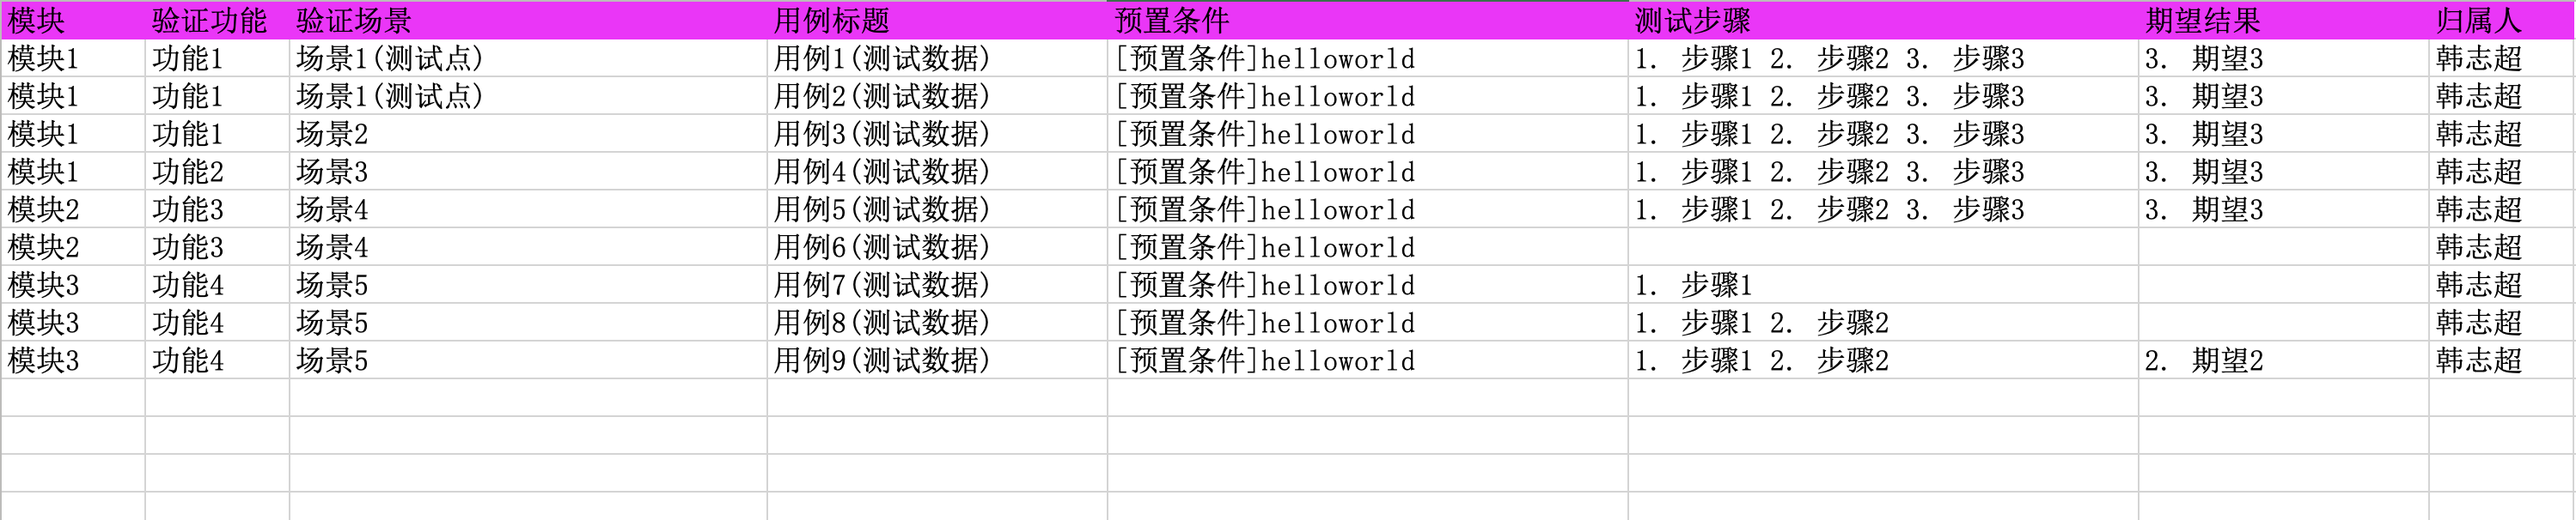
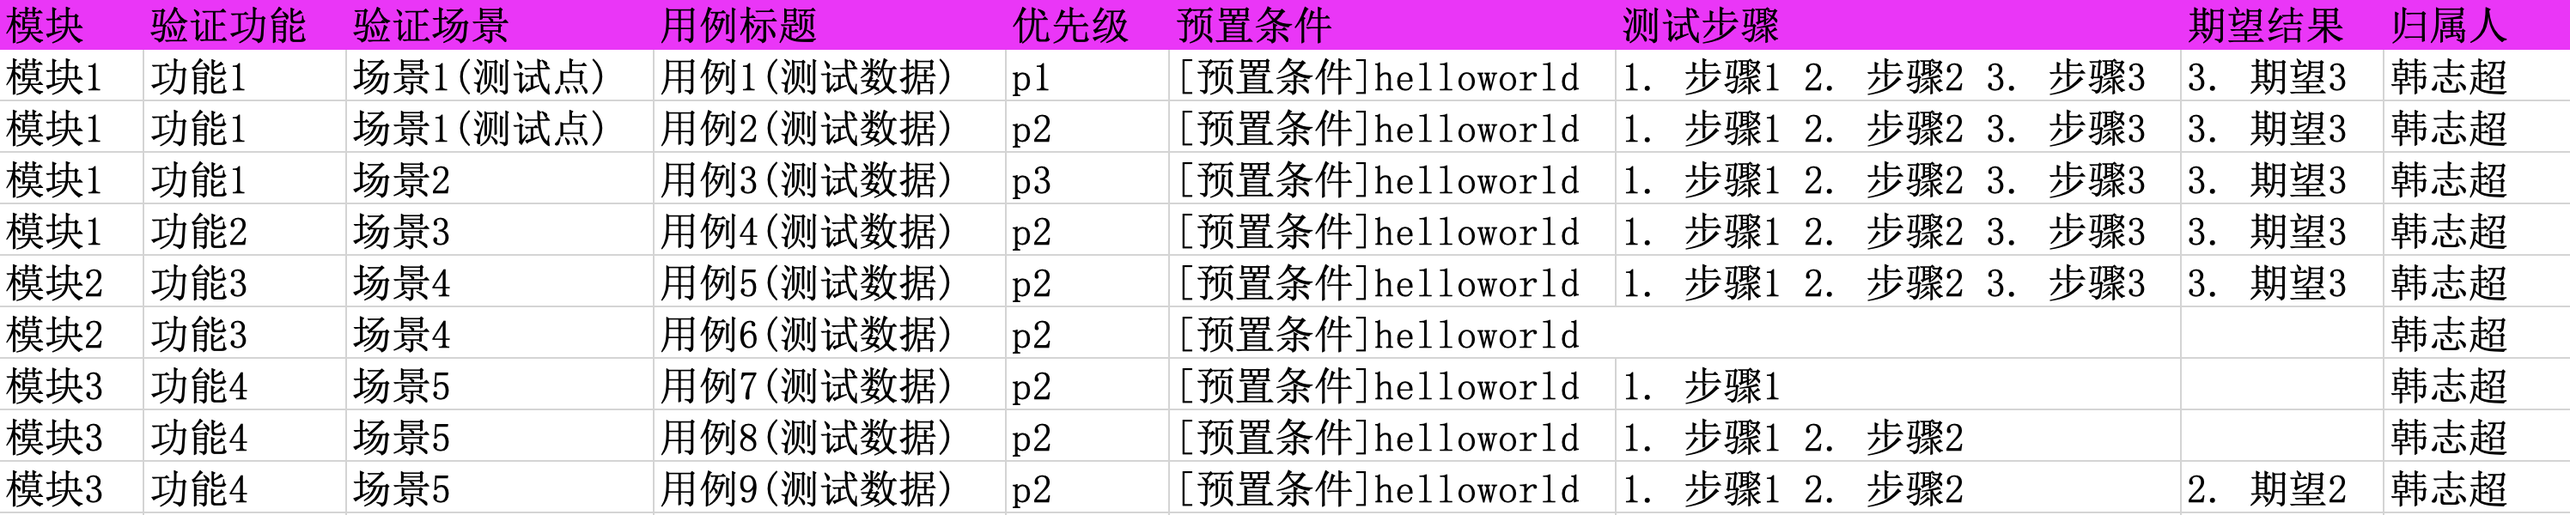
fix priority

Changed region(s): [[0.0, 0.0, 1.0, 1.0]]

diff --git a/xmind2excel/__init__.py b/xmind2excel/__init__.py
@@ -5,71 +5,88 @@ import openpyxl
 from openpyxl.styles import PatternFill
 from xmindparser import xmind_to_dict
 
-OWNER = '韩志超'
+DEFAULT_OWNER = ''
+DEFAULT_TITLE_LINE = ('模块', '验证功能', '验证场景', '用例标题', '优先级', '预置条件', '测试步骤', '期望结果', '归属人')
 
-data = xmind_to_dict('../tests/testcases.xmind')
+
+def load_xmind(xmind_file: str, sheet_index=0) -> dict:
+    data = xmind_to_dict(xmind_file)
+    pprint(data)
+    return data[sheet_index]
+
+
 # pprint(data)
+def parse_testcases(xmind_data: dict, owner=DEFAULT_OWNER):
+    root_topic = xmind_data['topic']
+    testcases = []
 
-root_topic = data[0]['topic']
-testcases = []
+    for module in root_topic['topics']:
+        module_title = module['title']
 
-for module in root_topic['topics']:
-    module_title = module['title']
+        for feature in module.get('topics', []):
+            feature_title = feature['title']
 
-    for feature in module.get('topics', []):
-        feature_title = feature['title']
+            for scenario in feature.get('topics', []):
+                scenario_title = scenario['title']
 
-        for scenario in feature.get('topics', []):
-            scenario_title = scenario['title']
+                for testcase in scenario.get('topics', []):
+                    testcase_title = testcase['title']
+                    priority = ''
+                    precondition = ''
+                    owner = owner
 
-            for testcase in scenario.get('topics', []):
-                testcase_title = testcase['title']
-                priority = ''
-                precondition = ''
-                owner = OWNER
+                    steps = []
+                    excepted = []
 
-                steps = []
-                excepted = []
+                    note = testcase.get('note')
+                    if note:
+                        precondition = note  # todo 解析 [预置条件]
 
-                note = testcase.get('note')
-                if note:
-                    precondition = note  # todo 解析 [预置条件]
+                    for index, step in enumerate(testcase.get('topics', [])):
+                        step_sn = index + 1
+                        step_title = step['title']
+                        if 'topics' in step.keys():
+                            step_excepted = ' \n'.join([item['title'] for item in step['topics']])
+                            excepted.append(f'{step_sn}. {step_excepted}')
 
-                for index, step in enumerate(testcase.get('topics', [])):
-                    step_sn = index + 1
-                    step_title = step['title']
-                    step_excepted = None
-                    if 'topics' in step.keys():
-                        step_excepted = ' \n'.join([item['title'] for item in step['topics']])
-                        excepted.append(f'{step_sn}. {step_excepted}')
+                        steps.append(f'{step_sn}. {step_title}')
 
-                    steps.append(f'{step_sn}. {step_title}')
+                    makers = testcase.get('makers')
+                    print('markers', makers)
+                    if makers:
+                        priority_markers = [item for item in makers if 'priority' in item]
+                        if priority_markers:
+                            priority = priority_markers[0].replace('priority-', 'p')
 
-                markers = testcase.get('markers')
-                if markers:
-                    priority_markers = [item.startwith('priority') for item in markers]
-                    if priority_markers:
-                        priority = priority_markers[0]
-
-
-
-                test_steps = ' \n'.join(steps)
-                test_excepted = ' \n'.join(excepted)
-                testcase_data = (module_title, feature_title, scenario_title, testcase_title, precondition, test_steps, test_excepted, owner)
-                testcases.append(testcase_data)
-                print('测试用例', testcase_data)
+                    test_steps = ' \n'.join(steps)
+                    test_excepted = ' \n'.join(excepted)
+                    testcase_data = (
+                        module_title, feature_title, scenario_title, testcase_title, priority, precondition, test_steps,
+                        test_excepted, owner)
+                    testcases.append(testcase_data)
+                    print('测试用例', testcase_data)
+    return testcases
 
 
-excel = openpyxl.Workbook()
-sheet = excel.active
-title_line = ['模块', '验证功能', '验证场景', '用例标题', '预置条件', '测试步骤', '期望结果', '归属人']
-sheet.append(title_line)
+def write_excel(testcases, output_excel_file: str = 'case.xlsx', title_line: list = DEFAULT_TITLE_LINE):
+    excel = openpyxl.Workbook()
+    sheet = excel.active
+    title_line = title_line
+    sheet.append(title_line)
 
-color = PatternFill('solid', fgColor="FF00FF")
-for i in range(1, 9):
-    sheet.cell(1, i).fill = color
+    color = PatternFill('solid', fgColor="FF00FF")
+    for i in range(1, len(title_line)+1):
+        sheet.cell(1, i).fill = color
 
-for testcase in testcases:
-    sheet.append(testcase)
+    for testcase in testcases:
+        sheet.append(testcase)
 
-excel.save("case.xlsx")
+    excel.save(output_excel_file)
+
+
+def xmind2excel(xmind_file, excel_file=None, owner=None):
+    xmind_data = load_xmind(xmind_file)
+    testcases = parse_testcases(xmind_data, owner=owner)
+    write_excel(testcases, excel_file)
+
+

diff --git a/tests/test_xmind2excel.py b/tests/test_xmind2excel.py
@@ -1,0 +1,5 @@
+from xmind2excel import xmind2excel
+
+
+def test_xmind2excel():
+    xmind2excel("./testcases.xmind", "./testcases.xlsx", owner='韩志超')
